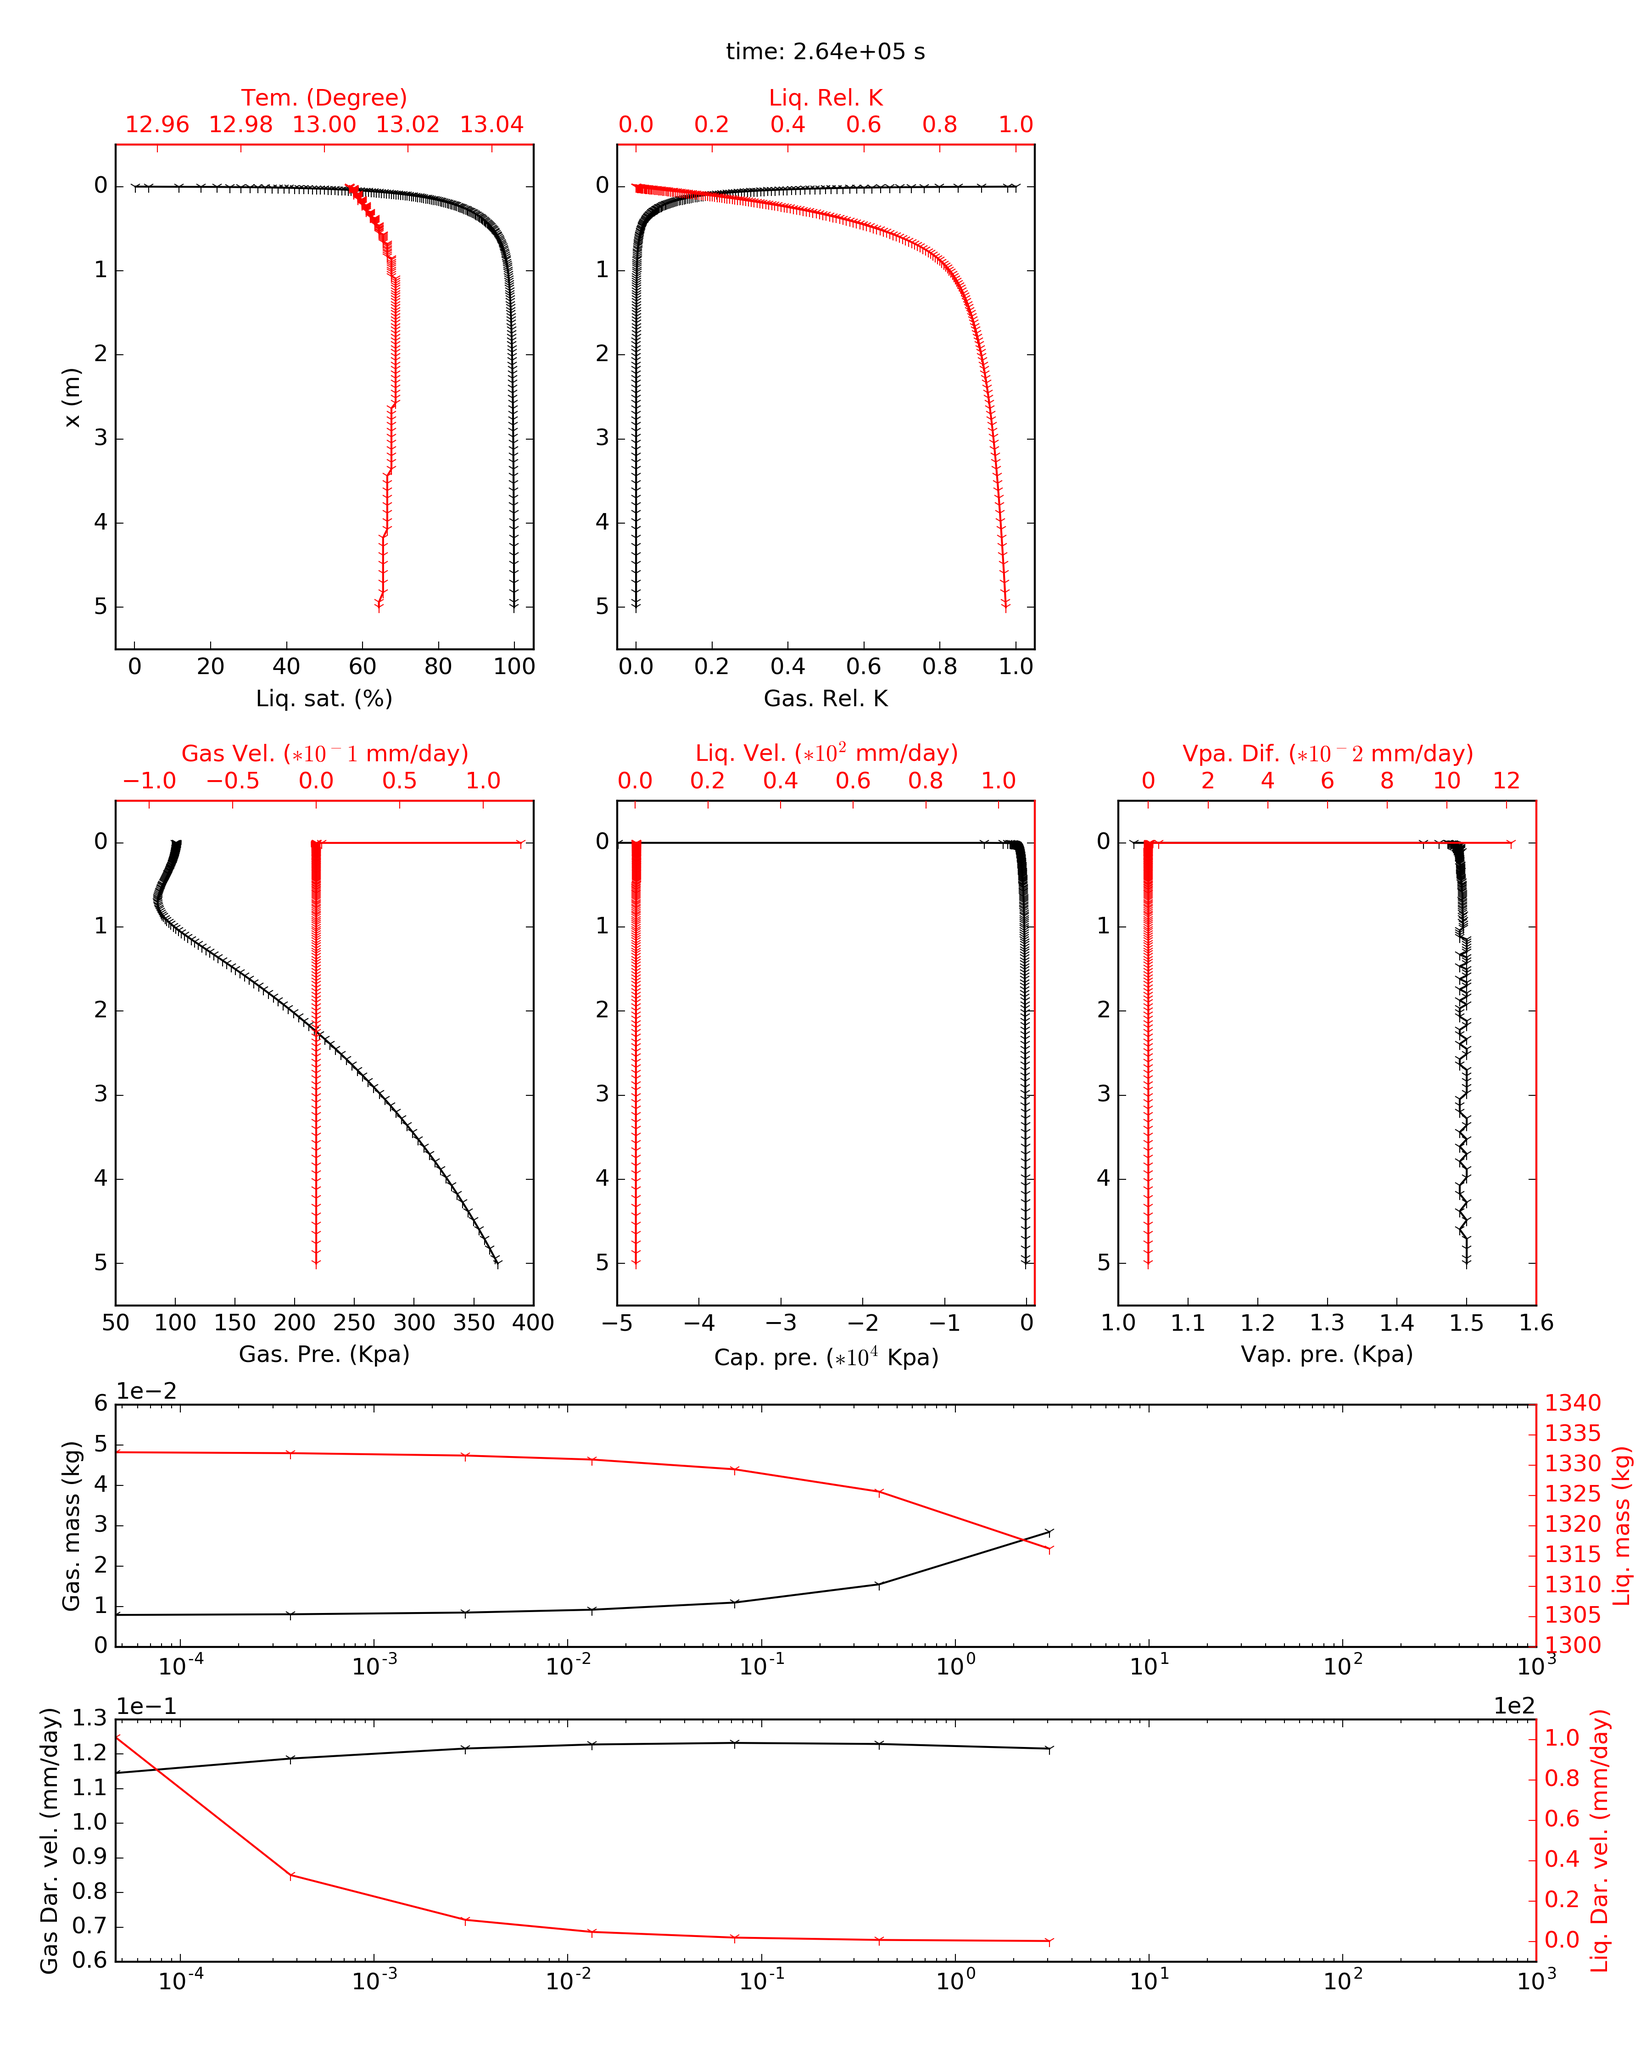
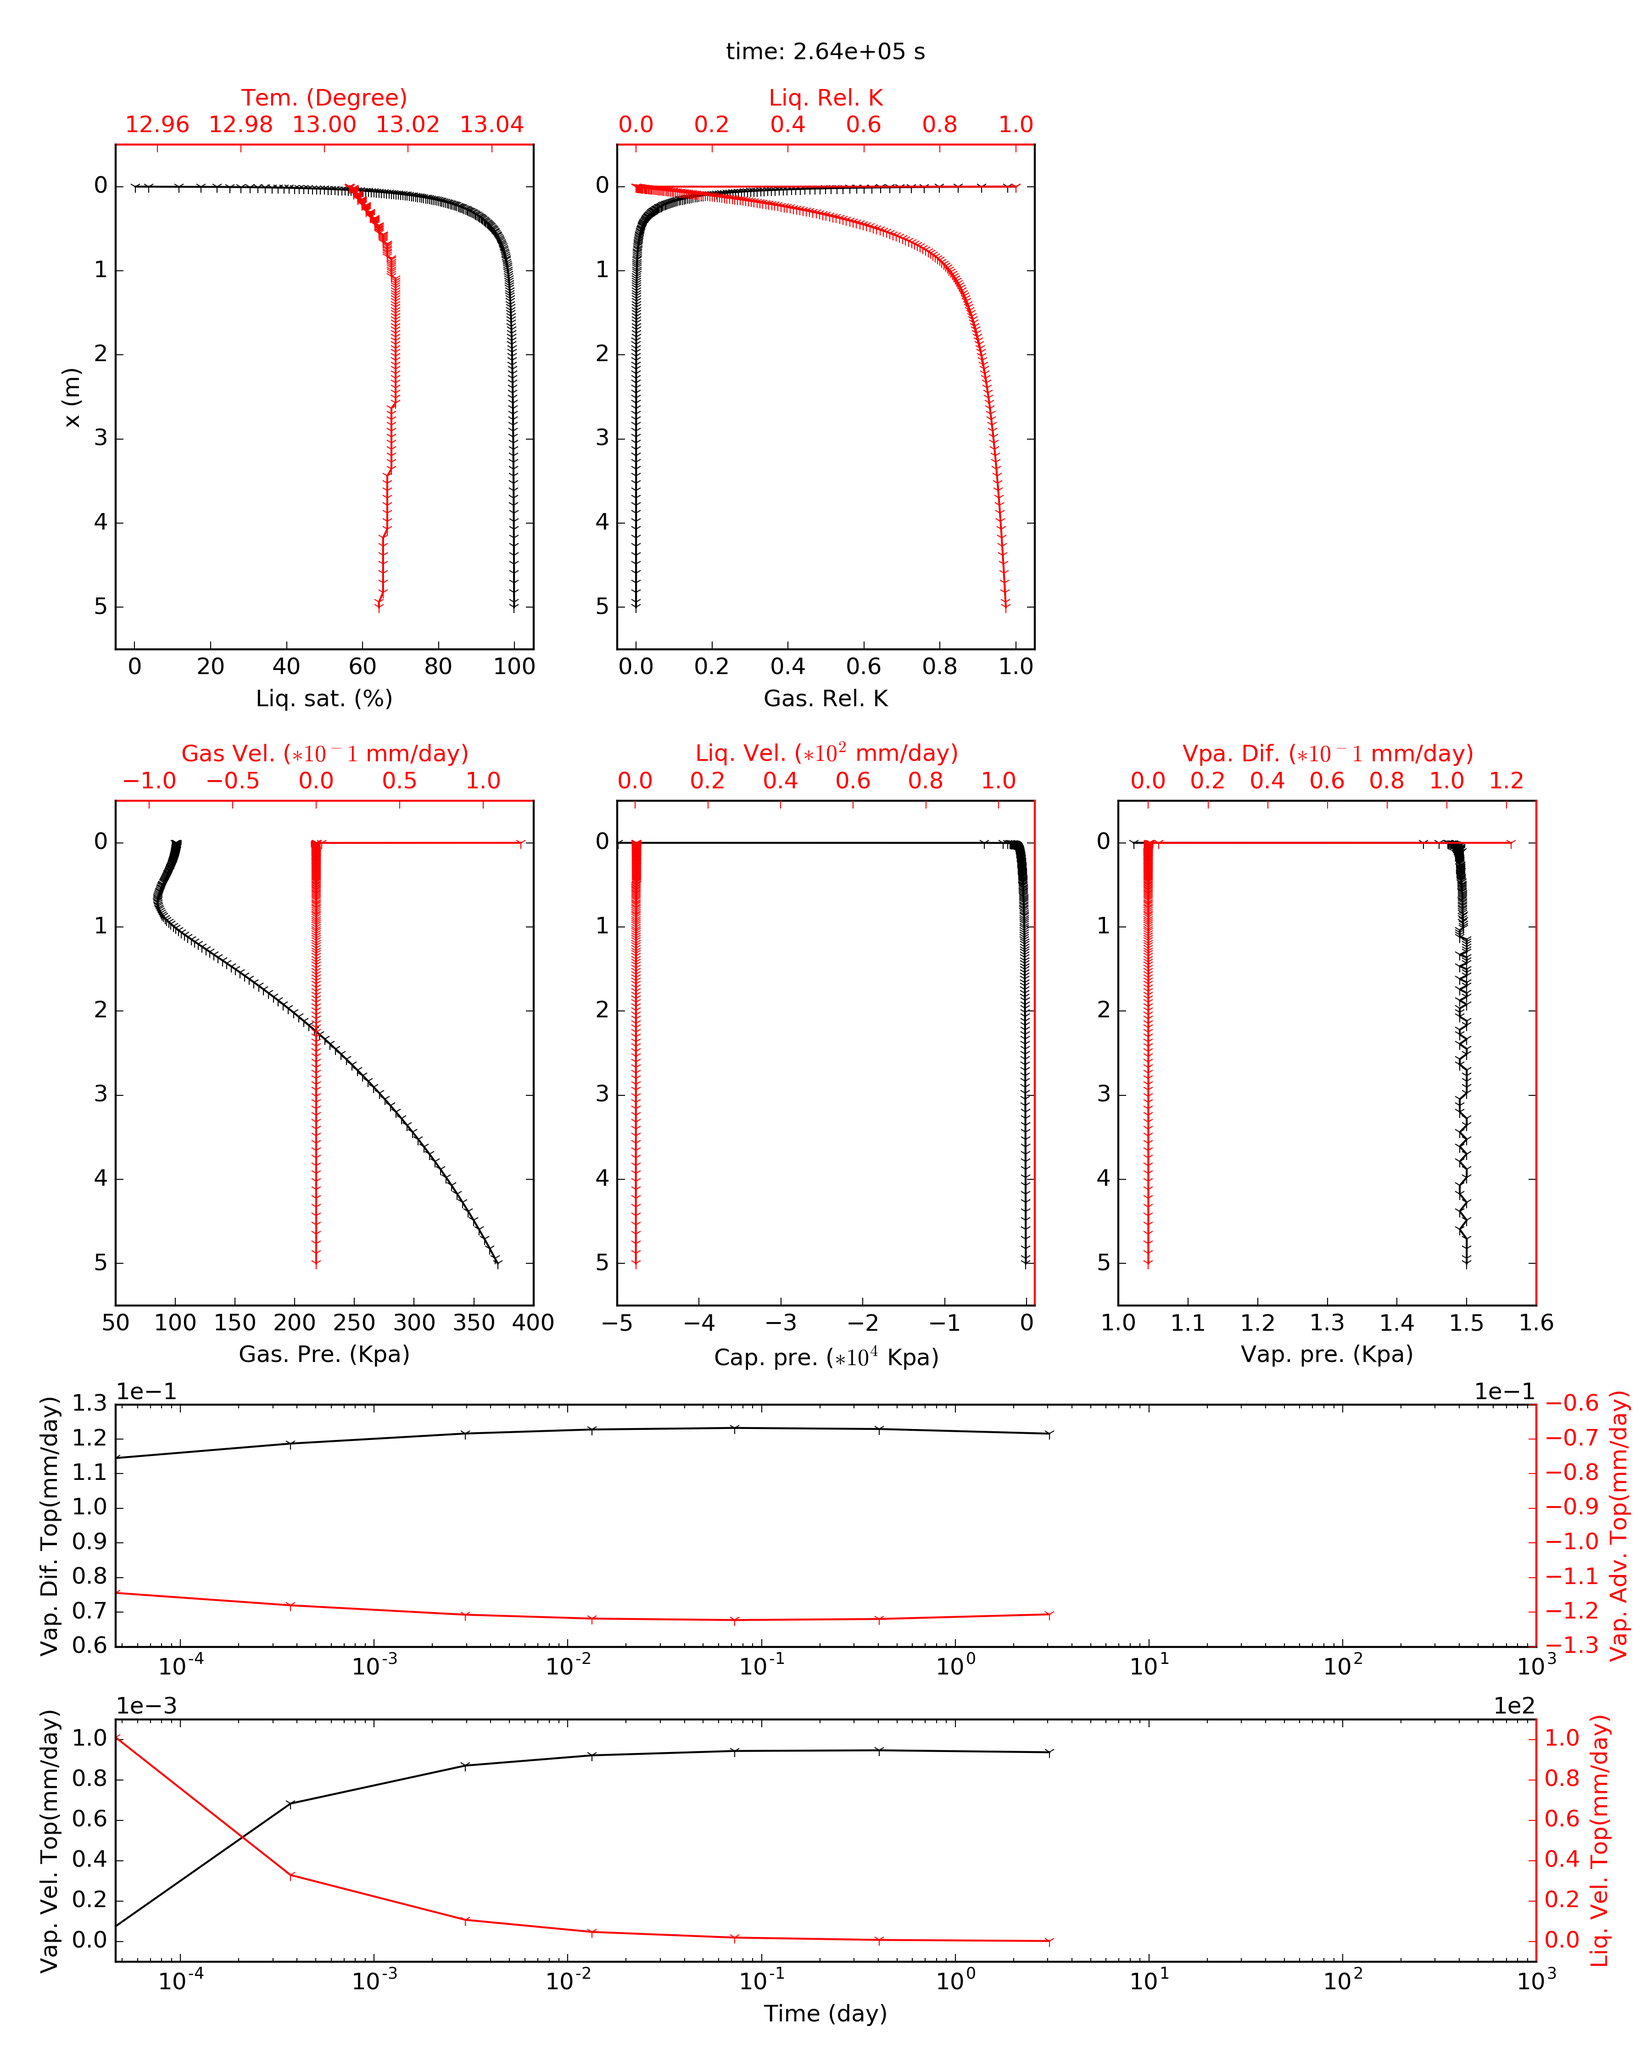
With diffusion

diff --git a/sample6_with_diff/python/parsing_outputfile.py b/sample6_with_diff/python/parsing_outputfile.py
@@ -33,7 +33,7 @@ Gas_Pressure                 = np.array([lst.history(('e',lst.element.row_name[i
 Air_Pressure                 = np.array([lst.history(('e',lst.element.row_name[i],'PAIR'))[1] for i in range(lst.element.num_rows)])
 Capillary_Pressure           = np.array([lst.history(('e',lst.element.row_name[i],'PCAP'))[1] for i in range(lst.element.num_rows)])
 Temperature                  = np.array([lst.history(('e',lst.element.row_name[i],'T'))[1] for i in range(lst.element.num_rows)])
-vapor_mass_fraction_in_gas   = 1-np.array([lst.history(('e',lst.element.row_name[i],'XAIRG'))[1] for i in range(lst.element.num_rows)])
+Vapor_mass_fraction_in_gas   = 1-np.array([lst.history(('e',lst.element.row_name[i],'XAIRG'))[1] for i in range(lst.element.num_rows)])
                              
 Liquid_flow_kgPs             = np.array([lst.history(('c',lst.connection.row_name[i],'FLO(LIQ.)'))[1] for i in range(lst.connection.num_rows)])
 Liquid_flow_raw              = Liquid_flow_kgPs/dat.grid.connectionlist[0].area/liq_density_kgPm3*m2mm*day2s
@@ -42,16 +42,20 @@ Gas_flow_raw                 = Gas_flow_kgPs/dat.grid.connectionlist[0].area/liq
 Vapor_diff_flow_kgPs         = np.array([lst.history(('c',lst.connection.row_name[i],'VAPDIF'))[1] for i in range(lst.connection.num_rows)])
 Vapor_diff_flow_raw          = Vapor_diff_flow_kgPs/dat.grid.connectionlist[0].area/liq_density_kgPm3*m2mm*day2s
 
-Vapor_flow_raw               = vapor_mass_fraction_in_gas[1:]*Gas_flow_raw
-air_flow_raw                 = (1-vapor_mass_fraction_in_gas[1:])*Gas_flow_raw
+
+Vapor_flow_raw               = (Vapor_mass_fraction_in_gas[1:]+Vapor_mass_fraction_in_gas[:-1])/2*Gas_flow_raw
+Vapor_flow_adv_raw           = Vapor_flow_raw-Vapor_diff_flow_raw
+Air_flow_raw                 = (1-(Vapor_mass_fraction_in_gas[1:]+Vapor_mass_fraction_in_gas[:-1])/2)*Gas_flow_raw
+Vapor_pressure               = Gas_Pressure-Air_Pressure
+
 Liquid_flow_topsoil          = Liquid_flow_raw[0]
 Gas_flow_topsoil             = Gas_flow_raw[0]
-vapor_flow_topsoil           = Vapor_flow_raw[0]
+Vapor_flow_topsoil           = Vapor_flow_raw[0]
+Vapor_flow_adv_topsoil       = Vapor_flow_adv_raw[0]
 Vapor_diff_flow_topsoil      = Vapor_diff_flow_raw[0]
+Air_flow_topsoil             = Air_flow_raw[0] 
 Liquid_flow_bottom           = Liquid_flow_raw[-1]
-vapor_flow_bottom            = Vapor_flow_raw[-1]
-Air_flow_topsoil             = air_flow_raw[0]    
-Vapor_pressure               = Gas_Pressure-Air_Pressure
+Vapor_flow_bottom            = Vapor_flow_raw[-1]
 	   
 Gas_permeability             = np.array([lst.history(('p',lst.primary.row_name[i],'K(GAS)'))[1] for i in range(lst.primary.num_rows)])
 Liq_permeability             = np.array([lst.history(('p',lst.primary.row_name[i],'K(LIQ.)'))[1] for i in range(lst.primary.num_rows)])
@@ -65,16 +69,15 @@ Liq_permeability             = np.array([lst.history(('p',lst.primary.row_name[i
 # Second_thermodynamic_var     = np.array([lst.history(('p',lst.primary.row_name[i],'X2'))[1] for i in range(lst.primary.num_rows)])
 # Third_thermodynamic_var      = np.array([lst.history(('p',lst.primary.row_name[i],'X3'))[1] for i in range(lst.primary.num_rows)])
                              
-                             
 Gas_mass_element             = np.array([element_volume*Gas_Density[1:-1,i]*Gas_saturation[1:-1,i]*dat.grid.rocktype['MATRI'].porosity for i in range(lst.num_times)])
-liquid_mass_element          = np.array([element_volume*Liq_Density[1:-1,i]*Liq_saturation[1:-1,i]*dat.grid.rocktype['MATRI'].porosity for i in range(lst.num_times)])
+Liquid_mass_element          = np.array([element_volume*Liq_Density[1:-1,i]*Liq_saturation[1:-1,i]*dat.grid.rocktype['MATRI'].porosity for i in range(lst.num_times)])
 Vapor_mass_element           = np.array([vapor_mass_fraction_in_gas[1:-1,i]*element_volume*Gas_Density[1:-1,i]*Gas_saturation[1:-1,i]*dat.grid.rocktype['MATRI'].porosity for i in range(lst.num_times)])
 Air_mass_element             = np.array([(1-vapor_mass_fraction_in_gas[1:-1,i])*element_volume*Gas_Density[1:-1,i]*Gas_saturation[1:-1,i]*dat.grid.rocktype['MATRI'].porosity for i in range(lst.num_times)])
 Gas_mass                     = np.sum(Gas_mass_element,axis=1) 
-liquid_mass                  = np.sum(liquid_mass_element,axis=1) 
+Liquid_mass                  = np.sum(Liquid_mass_element,axis=1) 
 Vapor_mass                   = np.sum(Vapor_mass_element,axis=1) 
-air_mass                     = np.sum(Air_mass_element,axis=1)
+Air_mass                     = np.sum(Air_mass_element,axis=1)
 
-Net_water_mass=np.diff(liquid_mass+Vapor_mass)
-Total_water_flux=(vapor_flow_bottom+Liquid_flow_bottom-vapor_flow_topsoil-Liquid_flow_topsoil)
+Net_water_mass=np.diff(Liquid_mass+Vapor_mass)
+Total_water_flux=(Vapor_flow_bottom+Liquid_flow_bottom-Vapor_flow_topsoil-Liquid_flow_topsoil)
 Net_water_flux=Total_water_flux[:-1]*dat.grid.connectionlist[0].area*liq_density_kgPm3/m2mm/day2s*np.diff(lst.times)

diff --git a/sample6/python/post_process.py b/sample6/python/post_process.py
@@ -124,11 +124,11 @@ while i<lst.num_times:
     #ax3.set_yscale('log')
     #plt.ticklabel_format(style='sci', axis='x', scilimits=(0,0))	
     ax4=ax3.twiny()	
-    ax4.plot(Vapor_diff_flow_raw[:,i]*100,connection_value,'r1-')
-    plt.xlabel('Vpa. Dif. ($*10^-2$ mm/day)')
+    ax4.plot(Vapor_diff_flow_raw[:,i]*10,connection_value,'r1-')
+    plt.xlabel('Vpa. Dif. ($*10^-1$ mm/day)')
     # plt.ylabel('high (m)')
     plt.ylim(5.5,-0.5)
-    plt.xlim(-1,13)
+    plt.xlim(-0.1,1.3)
     #plt.xlim(np.nanmin(Liquid_flow_raw),np.nanmax(Liquid_flow_raw))	
     #plt.ticklabel_format(style='sci', axis='x', scilimits=(0,0))
     ax4.spines['right'].set_color('red')	
@@ -225,33 +225,55 @@ while i<lst.num_times:
     # ax4.tick_params(axis='x', colors='red')	 	
     # plt.ticklabel_format(style='sci', axis='x', scilimits=(0,0))    
 	
-    ax5=plt.subplot(615)
-    ax5.plot(lst.times[:i+1]/day2s,Gas_mass[:i+1],'k1-')
-    plt.ylabel('Gas. mass (kg)')
-    #plt.xlabel('Time (s)')
-    plt.ylim(0,6.e-2)
-    #plt.ylim(np.min(Gas_mass),np.max(Gas_mass))
+    # ax5=plt.subplot(615)
+    # ax5.plot(lst.times[:i+1]/day2s,Gas_mass[:i+1],'k1-')
+    # plt.ylabel('Gas. mass (kg)')
+    # #plt.xlabel('Time (s)')
+    # plt.ylim(0,6.e-2)
+    # #plt.ylim(np.min(Gas_mass),np.max(Gas_mass))
+    # plt.xlim(0,np.max(lst.times)/day2s)
+    # ax5.set_xscale('log')
+    # plt.ticklabel_format(style='sci', axis='y', scilimits=(0,0),useLocale=0)
+    # #ax1.spines['left'].set_color('blue')
+    # ax6 = ax5.twinx() 
+    # ax6.plot(lst.times[:i+1]/day2s,liquid_mass[:i+1],'r1-',)
+    # plt.ylim(1300,1340)
+    # #plt.ylim(np.min(liquid_mass),np.max(liquid_mass))
+    # plt.xlim(0,np.max(lst.times)/day2s)
+    # plt.ylabel('Liq. mass (kg)')
+    # #plt.xlabel('Time (s)')
+    # ax6.set_xscale('log')
+    # ax6.spines['right'].set_color('red')
+    # ax6.yaxis.label.set_color('red')
+    # ax6.tick_params(axis='y', colors='red')	 	
+
+    ax7=plt.subplot(615)
+    ax7.plot(lst.times[:i+1]/day2s,Vapor_diff_flow_topsoil[:i+1],'k1-')
+    plt.ylabel('Vap. Dif. Top(mm/day)')
+    #plt.xlabel('Time (day)')
+    plt.ylim(0.06,0.13)
+    #plt.ylim(np.min(Vapor_diff_flow_topsoil),np.max(Vapor_diff_flow_topsoil))
     plt.xlim(0,np.max(lst.times)/day2s)
-    ax5.set_xscale('log')
-    plt.ticklabel_format(style='sci', axis='y', scilimits=(0,0),useLocale=0)
-    #ax1.spines['left'].set_color('blue')
-    ax6 = ax5.twinx() 
-    ax6.plot(lst.times[:i+1]/day2s,liquid_mass[:i+1],'r1-',)
-    plt.ylim(1300,1340)
-    #plt.ylim(np.min(liquid_mass),np.max(liquid_mass))
+    plt.ticklabel_format(style='sci', axis='y', scilimits=(0,0))
+    ax7.set_xscale('log')
+    ax8 = ax7.twinx() 
+    ax8.plot(lst.times[:i+1]/day2s,Vapor_flow_adv_topsoil[:i+1],'r1-',)
+    plt.ylim(-1.3e-1,-6e-2)
+    #plt.ylim(np.min(Vapor_flow_adv_raw),np.max(Vapor_flow_adv_raw))
     plt.xlim(0,np.max(lst.times)/day2s)
-    plt.ylabel('Liq. mass (kg)')
-    #plt.xlabel('Time (s)')
-    ax6.set_xscale('log')
-    ax6.spines['right'].set_color('red')
-    ax6.yaxis.label.set_color('red')
-    ax6.tick_params(axis='y', colors='red')	 	
+    plt.ticklabel_format(style='sci', axis='y', scilimits=(0,0))
+    plt.ylabel('Vap. Adv. Top(mm/day)')
+    #plt.xlabel('Time (day)')
+    ax8.set_xscale('log')
+    ax8.spines['right'].set_color('red')
+    ax8.yaxis.label.set_color('red')
+    ax8.tick_params(axis='y', colors='red')
 	
     ax7=plt.subplot(616)
-    ax7.plot(lst.times[:i+1]/day2s,Vapor_diff_flow_topsoil[:i+1],'k1-')
-    plt.ylabel('Gas Dar. vel. (mm/day)')
-    #plt.xlabel('Time (s)')
-    plt.ylim(0.06,0.13)
+    ax7.plot(lst.times[:i+1]/day2s,Vapor_flow_topsoil[:i+1],'k1-')
+    plt.ylabel('Vap. Vel. Top(mm/day)')
+    plt.xlabel('Time (day)')
+    plt.ylim(-0.1e-3,0.11e-2)
     #plt.ylim(np.min(Vapor_diff_flow_topsoil),np.max(Vapor_diff_flow_topsoil))
     plt.xlim(0,np.max(lst.times)/day2s)
     plt.ticklabel_format(style='sci', axis='y', scilimits=(0,0))
@@ -262,7 +284,7 @@ while i<lst.num_times:
     #plt.ylim(np.min(Liquid_flow_topsoil),np.max(Liquid_flow_topsoil))
     plt.xlim(0,np.max(lst.times)/day2s)
     plt.ticklabel_format(style='sci', axis='y', scilimits=(0,0))
-    plt.ylabel('Liq. Dar. vel. (mm/day)')
+    plt.ylabel('Liq. Vel. Top(mm/day)')
     plt.xlabel('Time (day)')
     ax8.set_xscale('log')
     ax8.spines['right'].set_color('red')

diff --git a/sample6_with_diff/python/post_process.py b/sample6_with_diff/python/post_process.py
@@ -124,11 +124,11 @@ while i<lst.num_times:
     #ax3.set_yscale('log')
     #plt.ticklabel_format(style='sci', axis='x', scilimits=(0,0))	
     ax4=ax3.twiny()	
-    ax4.plot(Vapor_diff_flow_raw[:,i]*100,connection_value,'r1-')
-    plt.xlabel('Vpa. Dif. ($*10^-2$ mm/day)')
+    ax4.plot(Vapor_diff_flow_raw[:,i]*10,connection_value,'r1-')
+    plt.xlabel('Vpa. Dif. ($*10^-1$ mm/day)')
     # plt.ylabel('high (m)')
     plt.ylim(5.5,-0.5)
-    plt.xlim(-1,13)
+    plt.xlim(-0.1,1.3)
     #plt.xlim(np.nanmin(Liquid_flow_raw),np.nanmax(Liquid_flow_raw))	
     #plt.ticklabel_format(style='sci', axis='x', scilimits=(0,0))
     ax4.spines['right'].set_color('red')	
@@ -225,33 +225,55 @@ while i<lst.num_times:
     # ax4.tick_params(axis='x', colors='red')	 	
     # plt.ticklabel_format(style='sci', axis='x', scilimits=(0,0))    
 	
-    ax5=plt.subplot(615)
-    ax5.plot(lst.times[:i+1]/day2s,Gas_mass[:i+1],'k1-')
-    plt.ylabel('Gas. mass (kg)')
-    #plt.xlabel('Time (s)')
-    plt.ylim(0,6.e-2)
-    #plt.ylim(np.min(Gas_mass),np.max(Gas_mass))
+    # ax5=plt.subplot(615)
+    # ax5.plot(lst.times[:i+1]/day2s,Gas_mass[:i+1],'k1-')
+    # plt.ylabel('Gas. mass (kg)')
+    # #plt.xlabel('Time (s)')
+    # plt.ylim(0,6.e-2)
+    # #plt.ylim(np.min(Gas_mass),np.max(Gas_mass))
+    # plt.xlim(0,np.max(lst.times)/day2s)
+    # ax5.set_xscale('log')
+    # plt.ticklabel_format(style='sci', axis='y', scilimits=(0,0),useLocale=0)
+    # #ax1.spines['left'].set_color('blue')
+    # ax6 = ax5.twinx() 
+    # ax6.plot(lst.times[:i+1]/day2s,liquid_mass[:i+1],'r1-',)
+    # plt.ylim(1300,1340)
+    # #plt.ylim(np.min(liquid_mass),np.max(liquid_mass))
+    # plt.xlim(0,np.max(lst.times)/day2s)
+    # plt.ylabel('Liq. mass (kg)')
+    # #plt.xlabel('Time (s)')
+    # ax6.set_xscale('log')
+    # ax6.spines['right'].set_color('red')
+    # ax6.yaxis.label.set_color('red')
+    # ax6.tick_params(axis='y', colors='red')	 	
+
+    ax7=plt.subplot(615)
+    ax7.plot(lst.times[:i+1]/day2s,Vapor_diff_flow_topsoil[:i+1],'k1-')
+    plt.ylabel('Vap. Dif. Top(mm/day)')
+    #plt.xlabel('Time (day)')
+    plt.ylim(0.06,0.13)
+    #plt.ylim(np.min(Vapor_diff_flow_topsoil),np.max(Vapor_diff_flow_topsoil))
     plt.xlim(0,np.max(lst.times)/day2s)
-    ax5.set_xscale('log')
-    plt.ticklabel_format(style='sci', axis='y', scilimits=(0,0),useLocale=0)
-    #ax1.spines['left'].set_color('blue')
-    ax6 = ax5.twinx() 
-    ax6.plot(lst.times[:i+1]/day2s,liquid_mass[:i+1],'r1-',)
-    plt.ylim(1300,1340)
-    #plt.ylim(np.min(liquid_mass),np.max(liquid_mass))
+    plt.ticklabel_format(style='sci', axis='y', scilimits=(0,0))
+    ax7.set_xscale('log')
+    ax8 = ax7.twinx() 
+    ax8.plot(lst.times[:i+1]/day2s,Vapor_flow_adv_topsoil[:i+1],'r1-',)
+    plt.ylim(-1.3e-1,-6e-2)
+    #plt.ylim(np.min(Vapor_flow_adv_raw),np.max(Vapor_flow_adv_raw))
     plt.xlim(0,np.max(lst.times)/day2s)
-    plt.ylabel('Liq. mass (kg)')
-    #plt.xlabel('Time (s)')
-    ax6.set_xscale('log')
-    ax6.spines['right'].set_color('red')
-    ax6.yaxis.label.set_color('red')
-    ax6.tick_params(axis='y', colors='red')	 	
+    plt.ticklabel_format(style='sci', axis='y', scilimits=(0,0))
+    plt.ylabel('Vap. Adv. Top(mm/day)')
+    #plt.xlabel('Time (day)')
+    ax8.set_xscale('log')
+    ax8.spines['right'].set_color('red')
+    ax8.yaxis.label.set_color('red')
+    ax8.tick_params(axis='y', colors='red')
 	
     ax7=plt.subplot(616)
-    ax7.plot(lst.times[:i+1]/day2s,Vapor_diff_flow_topsoil[:i+1],'k1-')
-    plt.ylabel('Gas Dar. vel. (mm/day)')
-    #plt.xlabel('Time (s)')
-    plt.ylim(0.06,0.13)
+    ax7.plot(lst.times[:i+1]/day2s,Vapor_flow_topsoil[:i+1],'k1-')
+    plt.ylabel('Vap. Vel. Top(mm/day)')
+    plt.xlabel('Time (day)')
+    plt.ylim(-0.1e-3,0.11e-2)
     #plt.ylim(np.min(Vapor_diff_flow_topsoil),np.max(Vapor_diff_flow_topsoil))
     plt.xlim(0,np.max(lst.times)/day2s)
     plt.ticklabel_format(style='sci', axis='y', scilimits=(0,0))
@@ -262,7 +284,7 @@ while i<lst.num_times:
     #plt.ylim(np.min(Liquid_flow_topsoil),np.max(Liquid_flow_topsoil))
     plt.xlim(0,np.max(lst.times)/day2s)
     plt.ticklabel_format(style='sci', axis='y', scilimits=(0,0))
-    plt.ylabel('Liq. Dar. vel. (mm/day)')
+    plt.ylabel('Liq. Vel. Top(mm/day)')
     plt.xlabel('Time (day)')
     ax8.set_xscale('log')
     ax8.spines['right'].set_color('red')
